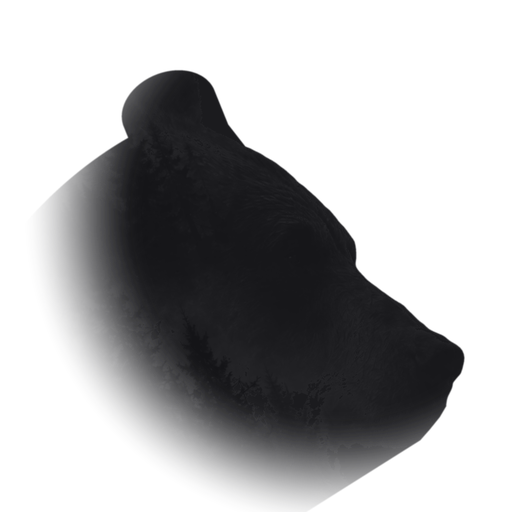
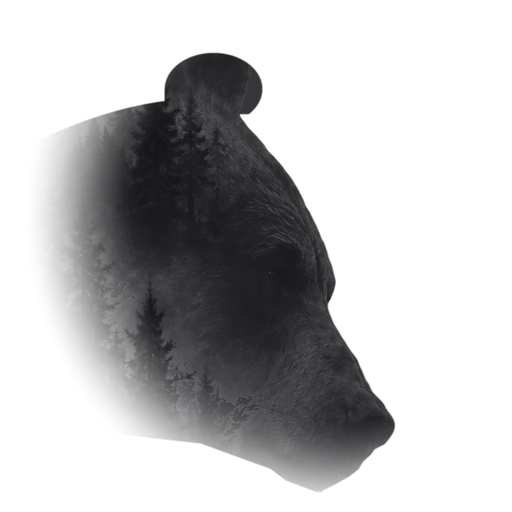
Сайт: значок — челюсть точно по обложке
Claude-Session: https://claude.ai/code/session_01Uu83MB45nkJX1tXJZPePva

Changed region(s): [[0.0938, 0.0938, 0.9062, 1.0]]

diff --git a/site/index.html b/site/index.html
@@ -7,9 +7,9 @@
 <meta name="description" content="Лана Фрейтаг — любовные романы. Новые главы на Литнете.">
 <meta name="theme-color" content="#fbfbfd" media="(prefers-color-scheme: light)">
 <meta name="theme-color" content="#0f0f13" media="(prefers-color-scheme: dark)">
-<link rel="icon" type="image/png" sizes="32x32" href="icon-32.png?7">
-<link rel="icon" type="image/png" sizes="512x512" href="icon-512.png?7">
-<link rel="apple-touch-icon" href="icon-bear.png?7">
+<link rel="icon" type="image/png" sizes="32x32" href="icon-32.png?8">
+<link rel="icon" type="image/png" sizes="512x512" href="icon-512.png?8">
+<link rel="apple-touch-icon" href="icon-bear.png?8">
 <link rel="preconnect" href="https://fonts.googleapis.com">
 <link rel="preconnect" href="https://fonts.gstatic.com" crossorigin>
 <link rel="stylesheet" href="https://fonts.googleapis.com/css2?family=Cormorant:ital,wght@1,400;1,500&family=Golos+Text:wght@400;500&family=Oranienbaum&display=swap">

diff --git a/site/admin/index.html b/site/admin/index.html
@@ -5,9 +5,9 @@
 <meta name="viewport" content="width=device-width, initial-scale=1, viewport-fit=cover">
 <meta name="robots" content="noindex">
 <title>Сайт · админка</title>
-<link rel="icon" type="image/png" sizes="32x32" href="../icon-32.png?7">
-<link rel="icon" type="image/png" sizes="512x512" href="../icon-512.png?7">
-<link rel="apple-touch-icon" href="../icon-bear.png?7">
+<link rel="icon" type="image/png" sizes="32x32" href="../icon-32.png?8">
+<link rel="icon" type="image/png" sizes="512x512" href="../icon-512.png?8">
+<link rel="apple-touch-icon" href="../icon-bear.png?8">
 <link rel="preconnect" href="https://fonts.googleapis.com">
 <link rel="preconnect" href="https://fonts.gstatic.com" crossorigin>
 <link rel="stylesheet" href="https://fonts.googleapis.com/css2?family=Cormorant:ital,wght@1,400;1,500&family=Golos+Text:wght@400;500&family=Oranienbaum&display=swap">

diff --git a/AGENTS.md b/AGENTS.md
@@ -37,7 +37,7 @@
   последний призыв; на телефоне кнопка «Читать» внизу появляется, когда главная ушла из виду.
   Пустые разделы не показываются. Цитаты, отрывки, отзывы — только настоящие (из книг/от читателей), не выдумывать.
   Первый экран главной — без обложек книг: слева заголовок и кнопка, справа **медведь в тумане над лесом — кадр с её обложки
-  «Звериная тропа для двоих»** (`site/hero-bear.jpg`, без лица героини и названия; значок вкладки — как у крупных сайтов: прозрачный фон, крупно (на весь значок) настоящая голова медведя с той же обложки (глаз, нос, шерсть; затылок уходит в туман), с чётким силуэтом (контур профиля с обложки, ухо низкое и широкое, полукругом (высокое круглое на ножке она назвала неприличным, «палку» — тоже), челюсть как на обложке: от подбородка сразу уходит назад, шеи нет (толстую шею и второй подбородок она назвала «жирный»), затылок и низ растворяются мягко по кругу от морды (прямоугольные края растушёвки — нет), фактура внутри едва заметная, голова чуть приподнята — морда вперёд, внутри фактура обложки; затылок и шея тают к краю) — размытая голова во вкладке «сливается»; белый ореол на розовой вкладке некрасив; плитку под значком она не хочет; для iPhone (`icon-bear.png`) — на светлом фоне; чёрный силуэт (и обведённый, и нарисованный) она отвергла, мелкую голову в круге — тоже (`site/icon-32.png`, `icon-bear.png` 180, `icon-512.png`; рисованного кодом медведя она отвергла))
+  «Звериная тропа для двоих»** (`site/hero-bear.jpg`, без лица героини и названия; значок вкладки — как у крупных сайтов: прозрачный фон, крупно (на весь значок) настоящая голова медведя с той же обложки (глаз, нос, шерсть; затылок уходит в туман), с чётким силуэтом (контур профиля с обложки, ухо низкое и широкое, полукругом (высокое круглое на ножке она назвала неприличным, «палку» — тоже), челюсть точно по обложке: низ челюсти от подбородка идёт назад и ВВЕРХ (линия через x 905→848 при y 679→650 в координатах обложки), шеи нет; голова без поворота, как на обложке (толстую шею и второй подбородок она назвала «жирный»), затылок и низ растворяются мягко по кругу от морды (прямоугольные края растушёвки — нет), фактура внутри едва заметная, голова чуть приподнята — морда вперёд, внутри фактура обложки; затылок и шея тают к краю) — размытая голова во вкладке «сливается»; белый ореол на розовой вкладке некрасив; плитку под значком она не хочет; для iPhone (`icon-bear.png`) — на светлом фоне; чёрный силуэт (и обведённый, и нарисованный) она отвергла, мелкую голову в круге — тоже (`site/icon-32.png`, `icon-bear.png` 180, `icon-512.png`; рисованного кодом медведя она отвергла))
   или другая картинка `photo`. Картинка 1300×1000: только голова медведя (ели ВНУТРИ силуэта — как на обложке, можно) из обложки
   в полном разрешении, мягко выходит из лёгкого тумана; дымка обложки переведена в белый (смешивание multiply с фоном).
   Текст и медведь — одна композиция строго по центру экрана (сетка 540px + 500px, медведь заходит под текст на 48px, текст сдвинут вправо до 48px — у медведя справа туман, так визуальный центр совпадает с центром экрана); картинка — в той же сетке, не absolute. У `.hero-in` нет z-index — иначе multiply не смешивается с фоном и виден белый прямоугольник.
